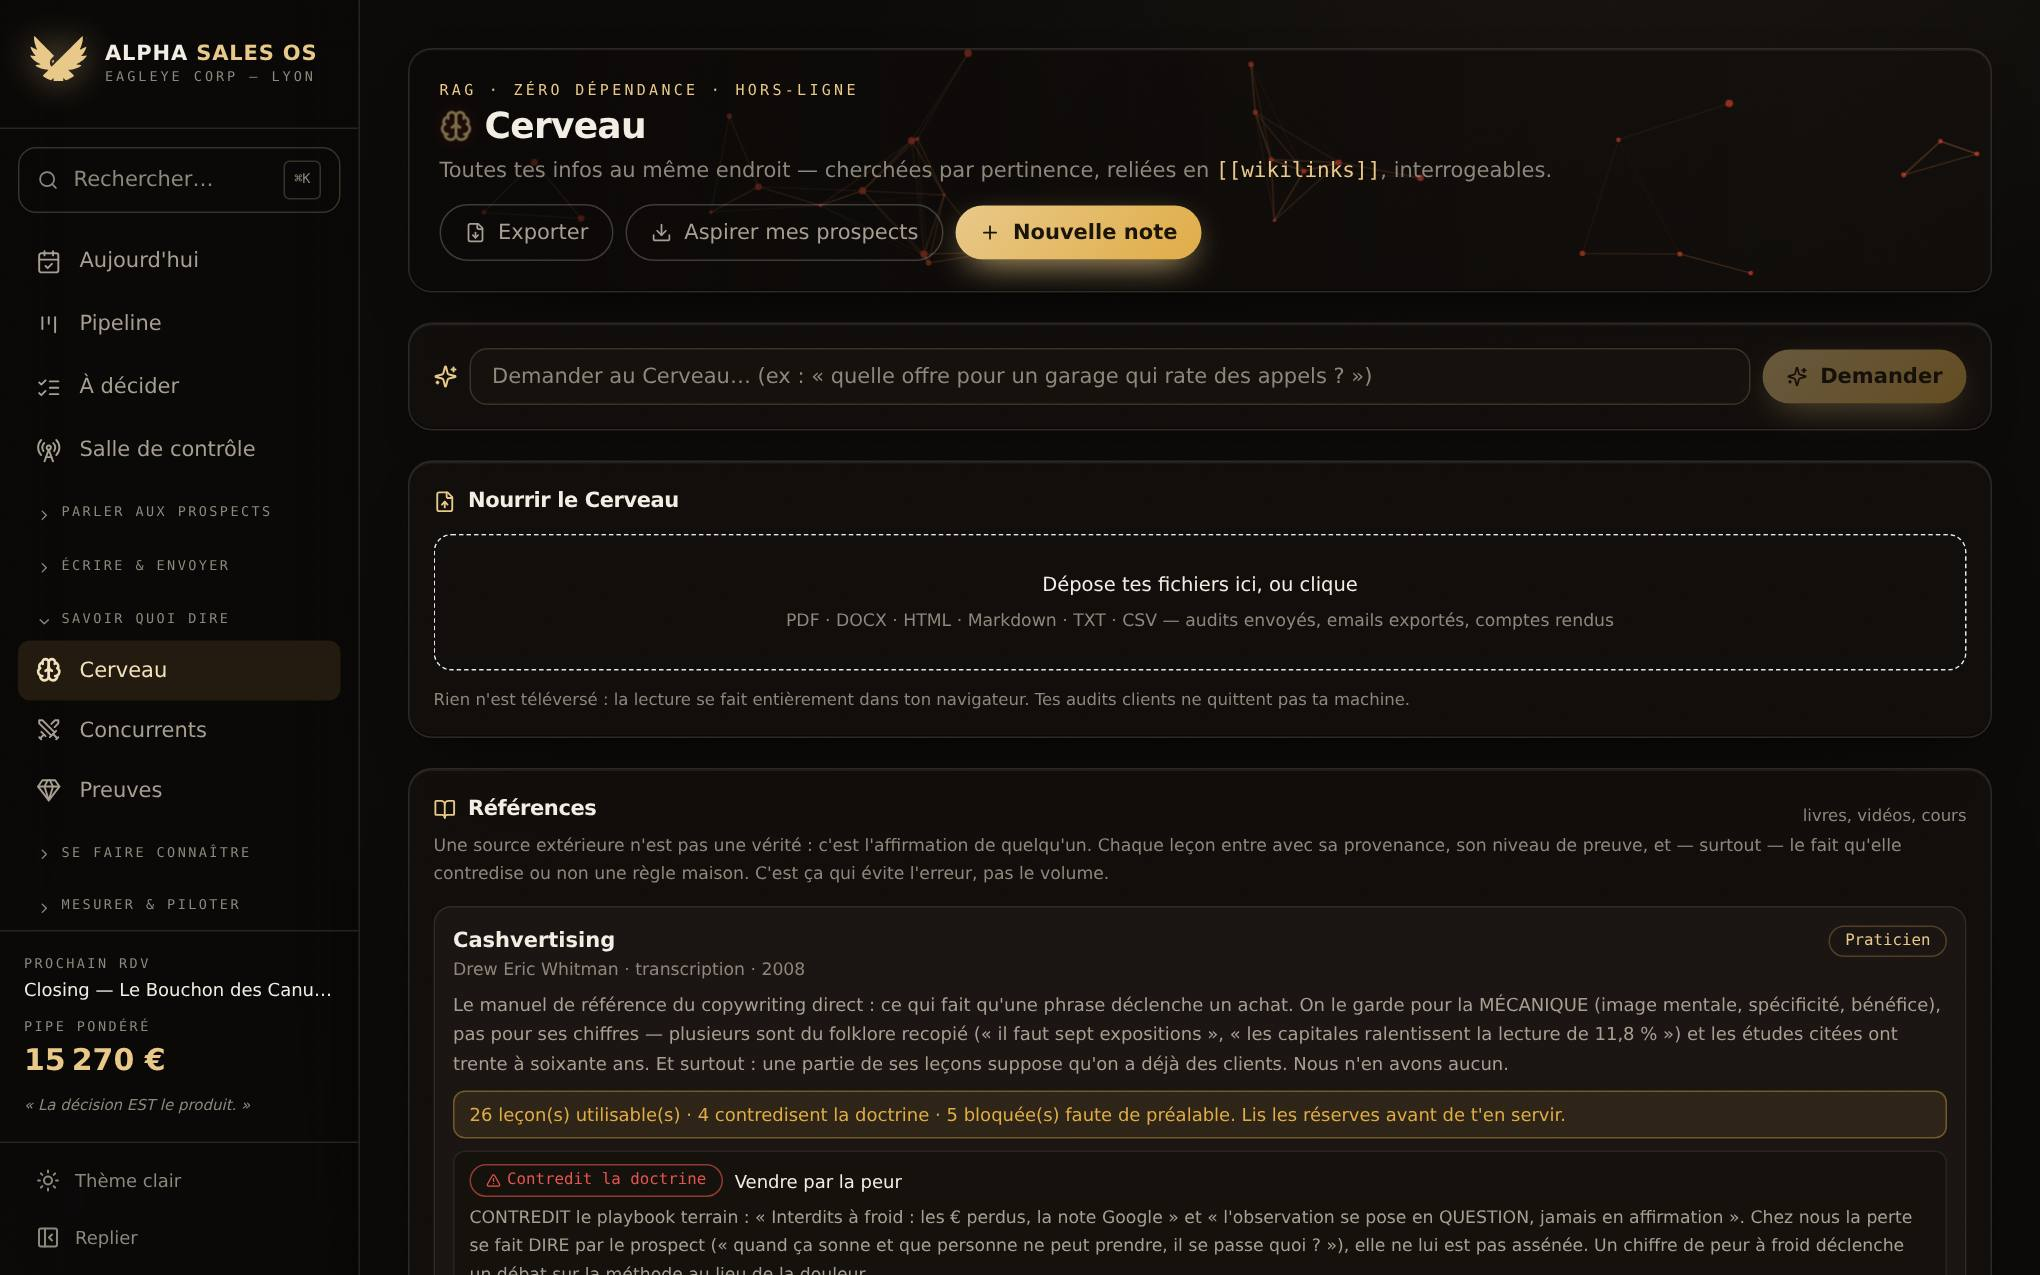
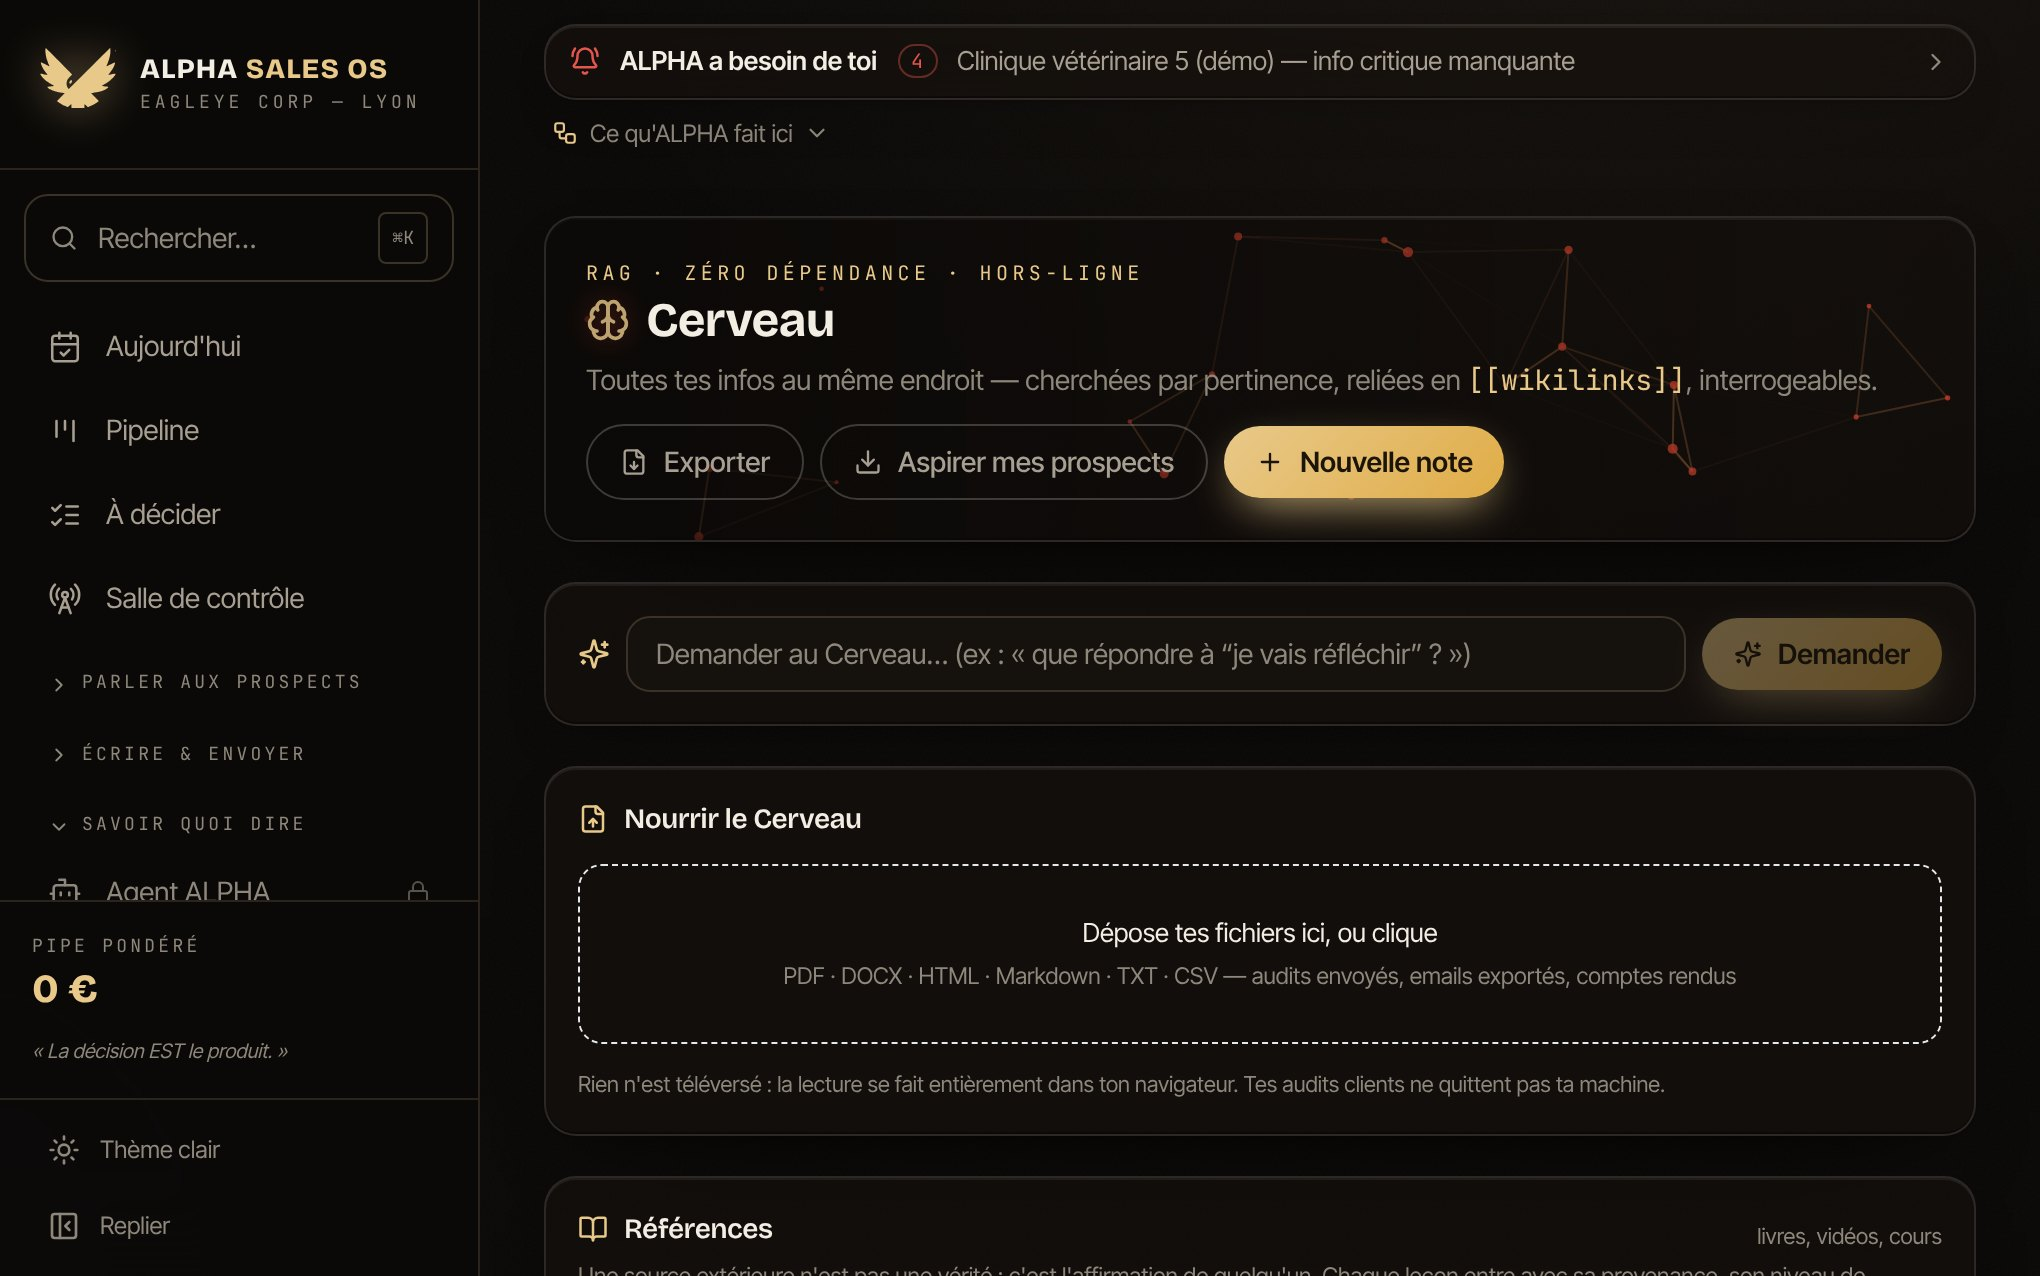
Vitrine et eagleyecorp.fr : captures refaites sur l'app actuelle, en mode inscrit
Les quatre captures de /vitrine dataient de l'ancien marché (pub,
ambulances), montraient une bulle de visite guidée et surtout
« MRR signé 190 € · 1 client(s) » : sur une page publique, ça se lit
comme un client réel. Remplacées par Aujourd'hui, ALPHA au travail,
la session d'appels et le Cerveau, sur le jeu de démo actuel (fiches
marquées « démo », aucun montant). Même chose pour la capture du site.

Trois restes de notre doctrine servis à un inscrit, vus sur les
captures : l'étape « Audit : Taxe d'Ignorance chiffrée », l'exemple
du Cerveau « un garage qui rate des appels », et le bandeau
« Hors fenêtre d'appel — hors fenêtre ».

Claude-Session: https://claude.ai/code/session_01K4mnjkQ9pJm5kYwuT58Puf

diff --git a/app/vitrine/page.tsx b/app/vitrine/page.tsx
@@ -509,16 +509,16 @@ export default function VitrinePage() {
             Voilà à quoi ça ressemble.
           </h2>
           <p className="mt-5 max-w-2xl text-[17px] leading-[1.65]" style={{ color: MUTED }}>
-            Les quatre écrans du socle gratuit, tels quels. Le jeu de démonstration est affiché —
+            Quatre écrans du socle gratuit, tels quels. Le jeu de démonstration est affiché —
             c&apos;est ce que vous verrez en créant votre compte, avant d&apos;y mettre vos propres
             fiches.
           </p>
 
           <div className="mt-10 grid gap-8 sm:grid-cols-2">
             {[
-              ["/produit/tableau-de-bord.jpg", "Le tableau de bord", "Ce qui bouge, en un écran : les routines du matin, le pipe pondéré, le prochain rendez-vous."],
-              ["/produit/pipeline.jpg", "Le pipeline", "Chaque fiche avec son étape et sa prochaine action datée. Une fiche sans date est une décision qu'on n'a pas prise."],
-              ["/produit/closer.jpg", "Le Closer OS", "La tournée du jour, priorisée — et le débrief à la voix en sortant de rendez-vous."],
+              ["/produit/aujourdhui.jpg", "Aujourd'hui", "Votre journée préparée : ce qui attend une décision en premier, le temps que ça prend, et la bande « ALPHA a besoin de toi »."],
+              ["/produit/travail.jpg", "ALPHA au travail", "Ce que la machine fait pour vous, étape par étape — et ce qu'elle refuse de faire."],
+              ["/produit/appels.jpg", "La session d'appels", "Votre liste du jour, dans l'ordre, avec le script et l'historique de chaque fiche. C'est vous qui appelez."],
               ["/produit/cerveau.jpg", "Le Cerveau", "Votre doctrine, vos scripts, vos objections. Cherchables en une phrase, pas rangés dans un dossier."],
             ].map(([src, titre, texte]) => (
               <figure key={src}>

diff --git a/site/index.html b/site/index.html
@@ -541,9 +541,9 @@ footer{border-top:1px solid var(--line);padding:38px 0 46px;margin-top:8px}
         <source srcset="/assets/produit-pipeline.webp" type="image/webp" />
         <img src="/assets/produit-pipeline.jpg" width="2200" height="1375"
              loading="lazy" decoding="async"
-             alt="Le pipeline d'Alpha Sales OS : les affaires en cours réparties par étape de vente, avec le montant et la prochaine action de chacune." />
+             alt="L'écran Aujourd'hui d'Alpha Sales OS : la journée préparée, ce qui attend une décision humaine en premier, avec le temps que ça prend." />
       </picture>
-      <figcaption>Le pipeline, tel qu'il s'affiche. Vos affaires, vos étapes, vos montants.</figcaption>
+      <figcaption>Votre journée, préparée par ALPHA : ce qui vous attend, dans l'ordre. Jeu de démonstration.</figcaption>
     </figure>
 
     <div class="steps">

diff --git a/lib/hormozi.ts b/lib/hormozi.ts
@@ -27,7 +27,7 @@ export const STAGES: {
 }[] = [
   { id: "prospect", label: "Prospect", probability: 5, hint: "Repéré, pas encore contacté" },
   { id: "contact", label: "Contact", probability: 15, hint: "Premier échange fait — next step daté obligatoire" },
-  { id: "audit", label: "Audit", probability: 30, hint: "Diagnostic terrain : Taxe d'Ignorance chiffrée" },
+  { id: "audit", label: "Audit", probability: 30, hint: "Diagnostic : le coût du problème, chiffré avec lui" },
   // « Démo mobile » était NOTRE démonstration (Alpha montré sur un téléphone).
   // L'étape est la même pour tout vendeur : montrer avant de chiffrer (22/10/2026).
   { id: "demo", label: "Démonstration", probability: 50, hint: "Émotion d'abord — montrer AVANT le prix" },

diff --git a/app/(app)/cerveau/page.tsx b/app/(app)/cerveau/page.tsx
@@ -352,7 +352,7 @@ function AskBrain({ notes, settings, onOpen }: { notes: KnowledgeNote[]; setting
         <Sparkles size={16} className="text-bronze-400" />
         <input
           className="input flex-1"
-          placeholder="Demander au Cerveau… (ex : « quelle offre pour un garage qui rate des appels ? »)"
+          placeholder="Demander au Cerveau… (ex : « que répondre à “je vais réfléchir” ? »)"
           value={q}
           onChange={(e) => setQ(e.target.value)}
           onKeyDown={(e) => e.key === "Enter" && ask()}

diff --git a/lib/conformite.ts b/lib/conformite.ts
@@ -151,8 +151,8 @@ export function fenetreOuverte(now = new Date(), timeZone = BUSINESS_TZ): { open
     return { open: false, label: "pause déjeuner", why: "12h–14h : taux de décroché au plancher, et l'agacement au plafond." };
   return {
     open: false,
-    label: "hors fenêtre",
-    why: "Avant 9h ou après 18h, on ne joint pas un dirigeant de TPE — on le dérange.",
+    label: "avant 9 h ou après 18 h",
+    why: "À ces heures-là, on ne joint pas un dirigeant : on le dérange.",
   };
 }
 
